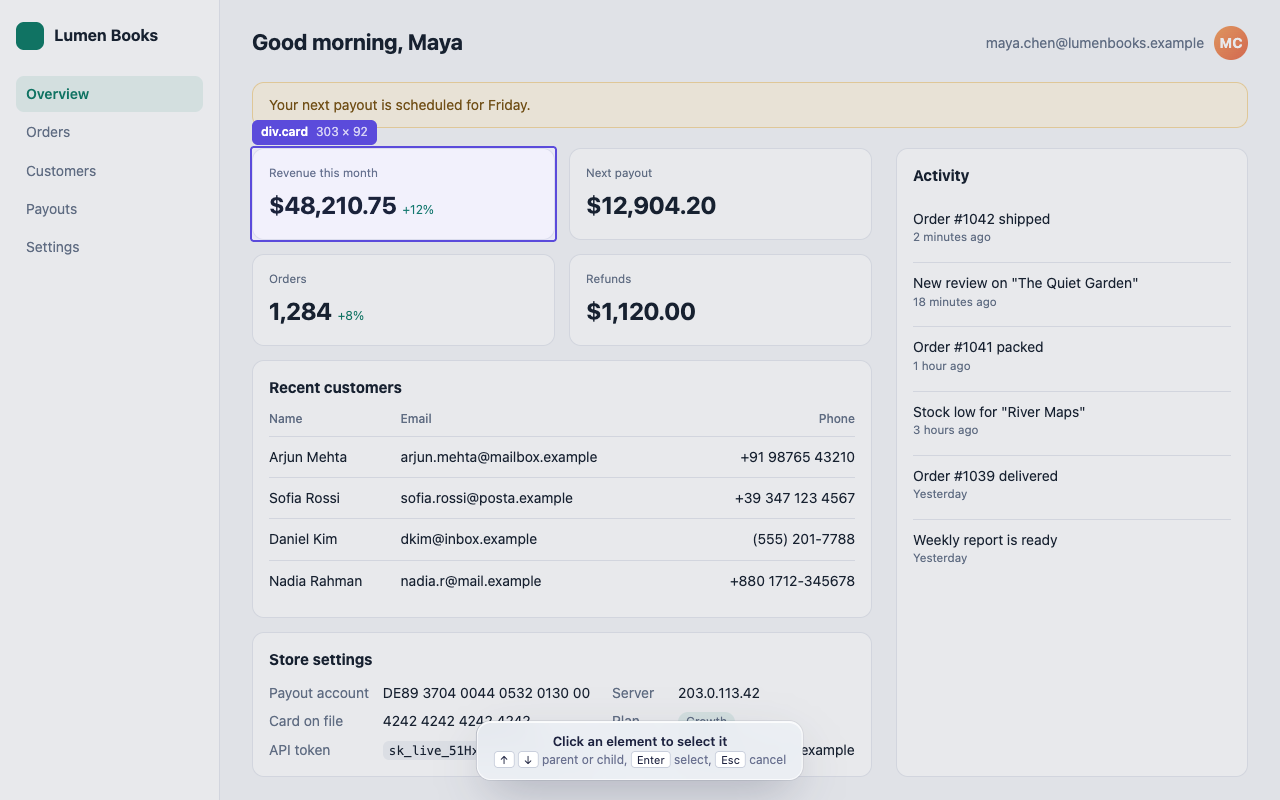
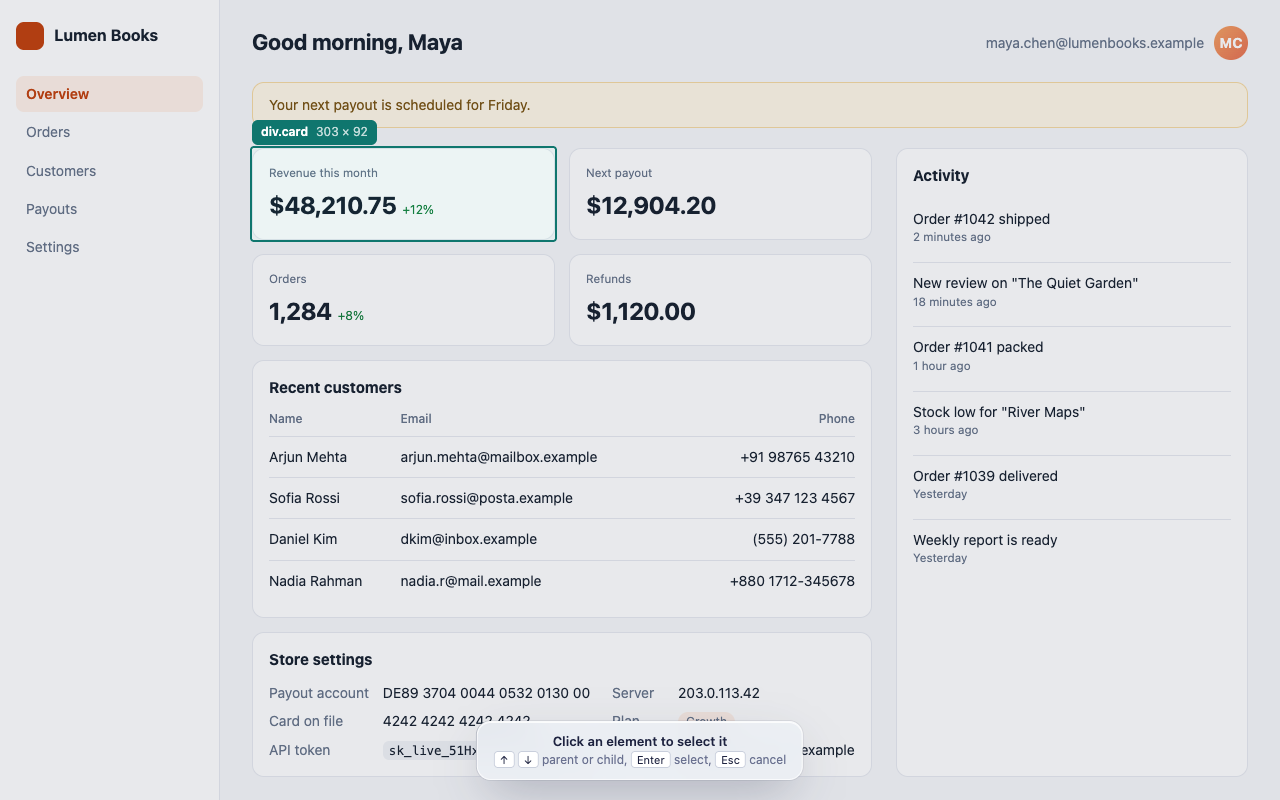
Change the brand color to deep teal
Replace the purple brand color (#5B4BDB) with deep teal (#0F766E) in
the popup, the on-page panel and picker, and the toolbar badge.
Recolor the icons and regenerate the store images. The demo page now
uses orange, so its own brand does not blend with Veil.

diff --git a/content.js b/content.js
@@ -269,16 +269,16 @@
     [hidden] { display: none !important; }
     .ui { font: 13px/1.4 system-ui, -apple-system, "Segoe UI", Roboto, "Helvetica Neue", sans-serif; color: #1E2340; }
 
-    .box { position: fixed; pointer-events: none; border: 2px solid #5B4BDB; border-radius: 4px;
-      background: rgba(91, 75, 219, .08); box-shadow: 0 0 0 4000px rgba(30, 35, 64, .10);
+    .box { position: fixed; pointer-events: none; border: 2px solid #0F766E; border-radius: 4px;
+      background: rgba(15, 118, 110, .08); box-shadow: 0 0 0 4000px rgba(30, 35, 64, .10);
       transition: left .05s, top .05s, width .05s, height .05s; }
     .box.locked { background: transparent; }
     .box.edit { background: transparent; border-style: dashed; box-shadow: none; }
-    .box.flash { background: rgba(91, 75, 219, .18); box-shadow: none; animation: pulse 1.2s ease-out; }
-    @keyframes pulse { 0% { outline: 0 solid rgba(91,75,219,.5); } 100% { outline: 18px solid rgba(91,75,219,0); } }
+    .box.flash { background: rgba(15, 118, 110, .18); box-shadow: none; animation: pulse 1.2s ease-out; }
+    @keyframes pulse { 0% { outline: 0 solid rgba(15, 118, 110,.5); } 100% { outline: 18px solid rgba(15, 118, 110,0); } }
 
     .tag { position: fixed; pointer-events: none; display: flex; gap: 8px; align-items: baseline;
-      max-width: 70vw; padding: 4px 9px; border-radius: 6px; background: #5B4BDB; color: #fff;
+      max-width: 70vw; padding: 4px 9px; border-radius: 6px; background: #0F766E; color: #fff;
       font-size: 12px; white-space: nowrap; overflow: hidden; }
     .tag .name { font-weight: 600; overflow: hidden; text-overflow: ellipsis; }
     .tag .dim { opacity: .75; }
@@ -300,7 +300,7 @@
     .head .title { font-weight: 650; font-size: 14px; }
     .head .el { flex: 1; min-width: 0; color: #6A7190; font-size: 12px; overflow: hidden; text-overflow: ellipsis; white-space: nowrap; }
     button { font: inherit; color: inherit; cursor: pointer; border: 0; background: none; }
-    button:focus-visible, input:focus-visible { outline: 2px solid #5B4BDB; outline-offset: 2px; }
+    button:focus-visible, input:focus-visible { outline: 2px solid #0F766E; outline-offset: 2px; }
     .icon-btn { width: 26px; height: 26px; border-radius: 8px; display: grid; place-items: center; color: #6A7190; }
     .icon-btn:hover { background: rgba(30,35,64,.07); color: #1E2340; }
 
@@ -312,20 +312,20 @@
     .actions { display: grid; grid-template-columns: repeat(3, 1fr); gap: 6px; margin-top: 10px; }
     .act { display: flex; flex-direction: column; align-items: center; gap: 5px; padding: 11px 4px 9px;
       border-radius: 11px; background: #fff; border: 1px solid rgba(201,207,220,.8); font-size: 12px; font-weight: 550; }
-    .act:hover { border-color: #5B4BDB; color: #5B4BDB; }
-    .act[aria-pressed="true"] { border-color: #5B4BDB; background: #5B4BDB; color: #fff; }
+    .act:hover { border-color: #0F766E; color: #0F766E; }
+    .act[aria-pressed="true"] { border-color: #0F766E; background: #0F766E; color: #fff; }
     .act svg { width: 20px; height: 20px; }
 
-    .keep { width: 100%; margin-top: 6px; padding: 7px 10px; border-radius: 10px; font-size: 12px; color: #5B4BDB;
-      background: rgba(91,75,219,.08); text-align: left; }
-    .keep:hover { background: rgba(91,75,219,.15); }
+    .keep { width: 100%; margin-top: 6px; padding: 7px 10px; border-radius: 10px; font-size: 12px; color: #0F766E;
+      background: rgba(15, 118, 110,.08); text-align: left; }
+    .keep:hover { background: rgba(15, 118, 110,.15); }
     .sub { margin-top: 10px; padding-top: 10px; border-top: 1px solid rgba(201,207,220,.9); display: grid; gap: 9px; }
     .sub label { display: flex; align-items: center; gap: 8px; font-size: 12px; color: #1E2340; }
-    .sub input[type=range] { flex: 1; accent-color: #5B4BDB; }
-    .sub input[type=checkbox] { accent-color: #5B4BDB; margin: 0; }
+    .sub input[type=range] { flex: 1; accent-color: #0F766E; }
+    .sub input[type=checkbox] { accent-color: #0F766E; margin: 0; }
     .val { min-width: 34px; text-align: right; color: #6A7190; font-variant-numeric: tabular-nums; }
     .choice { text-align: left; padding: 9px 10px; border-radius: 10px; background: #fff; border: 1px solid rgba(201,207,220,.8); }
-    .choice:hover { border-color: #5B4BDB; }
+    .choice:hover { border-color: #0F766E; }
     .choice b { display: block; font-weight: 600; font-size: 12px; }
     .choice span { color: #6A7190; font-size: 11.5px; }
 
@@ -333,8 +333,8 @@
     .nav button { padding: 3px 6px; border-radius: 6px; }
     .nav button:hover { background: rgba(30,35,64,.07); color: #1E2340; }
 
-    .primary { padding: 8px 14px; border-radius: 10px; background: #5B4BDB; color: #fff; font-weight: 600; }
-    .primary:hover { background: #4A3BC4; }
+    .primary { padding: 8px 14px; border-radius: 10px; background: #0F766E; color: #fff; font-weight: 600; }
+    .primary:hover { background: #115E59; }
     .ghost { padding: 8px 12px; border-radius: 10px; color: #6A7190; }
     .ghost:hover { background: rgba(30,35,64,.07); color: #1E2340; }
 
@@ -345,8 +345,8 @@
 
     .toast { position: fixed; right: 20px; bottom: 20px; pointer-events: auto; padding: 8px 8px 8px 14px;
       border-radius: 12px; display: flex; align-items: center; gap: 12px; font-weight: 550; }
-    .toast button { padding: 5px 10px; border-radius: 8px; color: #5B4BDB; font-weight: 600; }
-    .toast button:hover { background: rgba(91,75,219,.1); }
+    .toast button { padding: 5px 10px; border-radius: 8px; color: #0F766E; font-weight: 600; }
+    .toast button:hover { background: rgba(15, 118, 110,.1); }
 
     @media (prefers-reduced-motion: reduce) { .box { transition: none; } .box.flash { animation: none; } }
   `;

diff --git a/popup.css b/popup.css
@@ -1,8 +1,8 @@
 :root {
   --vellum: #EEF1F6;
   --ink: #1E2340;
-  --iris: #5B4BDB;
-  --iris-deep: #4A3BC4;
+  --teal: #0F766E;
+  --teal-deep: #115E59;
   --mist: #C9CFDC;
   --slate: #6A7190;
   --rose: #C23A4B;
@@ -18,7 +18,7 @@ body {
   background: var(--vellum);
 }
 button { font: inherit; color: inherit; cursor: pointer; border: 0; background: none; }
-button:focus-visible, input:focus-visible + .track { outline: 2px solid var(--iris); outline-offset: 2px; }
+button:focus-visible, input:focus-visible + .track { outline: 2px solid var(--teal); outline-offset: 2px; }
 [hidden] { display: none !important; }
 
 header {
@@ -40,7 +40,7 @@ h1 { margin: 0; font-size: 17px; font-weight: 700; letter-spacing: -0.01em; }
   content: ""; position: absolute; top: 2px; left: 2px; width: 16px; height: 16px; border-radius: 50%;
   background: #fff; box-shadow: 0 1px 2px rgba(30,35,64,.3); transition: transform .15s;
 }
-.switch input:checked + .track { background: var(--iris); }
+.switch input:checked + .track { background: var(--teal); }
 .switch input:checked + .track::after { transform: translateX(14px); }
 .state { font-size: 12px; color: var(--slate); min-width: 44px; }
 
@@ -49,10 +49,10 @@ main { padding: 0 12px 8px; }
 .pick {
   width: 100%; display: flex; align-items: center; justify-content: space-between;
   padding: 12px 14px; border-radius: 14px;
-  background: var(--iris); color: #fff; font-weight: 600; font-size: 14px;
-  box-shadow: 0 8px 20px -10px rgba(91,75,219,.8);
+  background: var(--teal); color: #fff; font-weight: 600; font-size: 14px;
+  box-shadow: 0 8px 20px -10px rgba(15, 118, 110,.8);
 }
-.pick:hover { background: var(--iris-deep); }
+.pick:hover { background: var(--teal-deep); }
 kbd {
   font: inherit; font-size: 11px; font-weight: 500; padding: 2px 7px; border-radius: 6px;
   background: rgba(255,255,255,.18);
@@ -72,7 +72,7 @@ section { margin-top: 14px; }
 .note { margin: 0; font-size: 12px; color: var(--slate); }
 .note kbd { background: rgba(30,35,64,.07); color: var(--ink); }
 .check { display: flex; gap: 8px; align-items: flex-start; font-size: 12px; cursor: pointer; }
-.check input { margin: 2px 0 0; accent-color: var(--iris); }
+.check input { margin: 2px 0 0; accent-color: var(--teal); }
 .types { border: 0; margin: 0; padding: 0; display: grid; grid-template-columns: 1fr 1fr; gap: 6px 10px; }
 .types legend { padding: 0; margin-bottom: 6px; font-size: 12px; font-weight: 600; color: var(--slate); }
 .field { display: grid; gap: 4px; font-size: 12px; color: var(--slate); }
@@ -80,10 +80,10 @@ section { margin-top: 14px; }
   width: 100%; resize: vertical; padding: 6px 8px; border-radius: 8px; border: 1px solid var(--mist);
   font: 12px/1.4 ui-monospace, SFMono-Regular, Menlo, monospace; color: var(--ink); background: #fff;
 }
-.field textarea:focus-visible { outline: 2px solid var(--iris); outline-offset: 1px; }
+.field textarea:focus-visible { outline: 2px solid var(--teal); outline-offset: 1px; }
 .excl { display: flex; align-items: center; justify-content: space-between; font-size: 12px; color: var(--slate); }
-.excl button { color: var(--iris); font-weight: 600; padding: 3px 6px; border-radius: 6px; }
-.excl button:hover { background: rgba(91,75,219,.1); }
+.excl button { color: var(--teal); font-weight: 600; padding: 3px 6px; border-radius: 6px; }
+.excl button:hover { background: rgba(15, 118, 110,.1); }
 section h2 {
   margin: 0 4px 6px; font-size: 12px; font-weight: 600; color: var(--slate);
   display: flex; justify-content: space-between;
@@ -98,11 +98,11 @@ li.rule.off .badge, li.rule.off .body { opacity: .45; }
 
 .badge {
   width: 30px; height: 30px; border-radius: 9px; display: grid; place-items: center;
-  background: rgba(91,75,219,.1); color: var(--iris);
+  background: rgba(15, 118, 110,.1); color: var(--teal);
 }
 .badge.hide { background: rgba(30,35,64,.08); color: var(--ink); }
 .badge.data { background: rgba(194,58,75,.1); color: var(--rose); }
-.badge.text { background: rgba(91,75,219,.16); }
+.badge.text { background: rgba(15, 118, 110,.16); }
 .badge svg { width: 17px; height: 17px; }
 
 .body { min-width: 0; }

diff --git a/store/pages/dashboard.html b/store/pages/dashboard.html
@@ -4,7 +4,7 @@
 <meta charset="utf-8">
 <title>Lumen Books · Dashboard</title>
 <style>
-  :root { --ink: #16202e; --muted: #677489; --line: #e6e9ef; --bg: #f6f7f9; --brand: #0e7c66; }
+  :root { --ink: #16202e; --muted: #677489; --line: #e6e9ef; --bg: #f6f7f9; --brand: #C2410C; }
   * { box-sizing: border-box; }
   body { margin: 0; font: 14px/1.45 system-ui, -apple-system, "Segoe UI", Roboto, sans-serif; color: var(--ink); background: var(--bg); }
   .app { display: grid; grid-template-columns: 220px 1fr; min-height: 800px; }
@@ -12,7 +12,7 @@
   .logo { display: flex; align-items: center; gap: 10px; font-weight: 700; font-size: 16px; margin-bottom: 26px; }
   .logo i { width: 28px; height: 28px; border-radius: 8px; background: var(--brand); display: block; }
   nav a { display: block; padding: 8px 10px; border-radius: 8px; color: var(--muted); text-decoration: none; margin-bottom: 2px; }
-  nav a.on { background: #e8f4f1; color: var(--brand); font-weight: 600; }
+  nav a.on { background: #FFF1E8; color: var(--brand); font-weight: 600; }
   main { padding: 26px 32px; display: grid; grid-template-columns: 620px 1fr; gap: 0 24px; align-content: start; }
   header, .banner { grid-column: 1 / -1; }
   .left { display: grid; gap: 14px; }
@@ -24,7 +24,7 @@
   .card { background: #fff; border: 1px solid var(--line); border-radius: 12px; padding: 16px; }
   .card small { color: var(--muted); display: block; margin-bottom: 6px; }
   .card b { font-size: 24px; letter-spacing: -.01em; }
-  .card em { font-style: normal; color: var(--brand); font-size: 12px; margin-left: 6px; }
+  .card em { font-style: normal; color: #15803D; font-size: 12px; margin-left: 6px; }
   table { width: 100%; border-collapse: collapse; }
   th { text-align: left; color: var(--muted); font-weight: 500; font-size: 12px; padding: 0 0 8px; }
   td { padding: 10px 0; border-top: 1px solid var(--line); }
@@ -37,7 +37,7 @@
   .feed small { display: block; color: var(--muted); }
   .kv span { color: var(--muted); }
   code { font: 12.5px ui-monospace, SFMono-Regular, Menlo, monospace; background: #f1f3f6; padding: 2px 6px; border-radius: 6px; }
-  .pill { display: inline-block; padding: 1px 8px; border-radius: 99px; font-size: 12px; background: #e8f4f1; color: var(--brand); }
+  .pill { display: inline-block; padding: 1px 8px; border-radius: 99px; font-size: 12px; background: #FFF1E8; color: var(--brand); }
 </style>
 </head>
 <body>

diff --git a/store/generate-assets.js b/store/generate-assets.js
@@ -180,14 +180,14 @@ function promoHtml(width, height, icon) {
         : `<span style="font:600 ${13 * u}px system-ui;color:#1e2340;filter:blur(${4 * u}px)">$${value},480.00</span>`}
     </div>`;
   return `<body style="margin:0;width:${width}px;height:${height}px;overflow:hidden;
-      background:radial-gradient(circle at 20% 30%,#7a6cf0,#5b4bdb 45%,#3f31b8);font-family:system-ui">
+      background:radial-gradient(circle at 20% 30%,#136F68,#0B4F4A 50%,#073A36);font-family:system-ui">
     <div style="height:100%;display:flex;align-items:center;justify-content:center;gap:${40 * u}px">
     <div style="display:flex;flex-direction:column;align-items:center;gap:${10 * u}px">
       <img src="${icon}" style="width:${96 * u}px;height:${96 * u}px;filter:drop-shadow(0 ${6 * u}px ${14 * u}px rgba(0,0,0,.25))">
       <span style="color:#fff;font-weight:700;font-size:${30 * u}px;letter-spacing:-.01em">Veil</span>
     </div>
     <div style="transform:rotate(-3deg);width:${220 * u}px;background:#fff;border-radius:${14 * u}px;padding:${14 * u}px ${16 * u}px;
-        box-shadow:0 ${18 * u}px ${40 * u}px rgba(20,16,70,.35)">
+        box-shadow:0 ${18 * u}px ${40 * u}px rgba(4,40,37,.35)">
       <div style="height:${9 * u}px;width:${90 * u}px;border-radius:${5 * u}px;background:#1e2340;margin-bottom:${10 * u}px"></div>
       ${row(60 * u, 70, 'mask')}${row(44 * u, 12, 'blur')}${row(70 * u, 90, 'mask')}${row(52 * u, 48, 'blur')}${row(38 * u, 56, 'mask')}
     </div>

diff --git a/background.js b/background.js
@@ -51,7 +51,7 @@ chrome.runtime.onMessage.addListener((msg, sender) => {
   if (msg?.type === 'veil:count' && sender.tab?.id != null) {
     const tabId = sender.tab.id;
     chrome.action.setBadgeText({ tabId, text: msg.n ? String(msg.n) : '' }).catch(() => {});
-    chrome.action.setBadgeBackgroundColor({ tabId, color: '#5B4BDB' }).catch(() => {});
+    chrome.action.setBadgeBackgroundColor({ tabId, color: '#0F766E' }).catch(() => {});
     chrome.action.setBadgeTextColor?.({ tabId, color: '#FFFFFF' })?.catch?.(() => {});
   }
 });

diff --git a/CHANGELOG.md b/CHANGELOG.md
@@ -8,6 +8,7 @@ The format follows [Keep a Changelog](https://keepachangelog.com/en/1.1.0/), and
 
 ### Changed
 
+- New deep teal brand color (`#0F766E`) for the icon, popup, on-page panel and picker.
 - Shorter extension description, because the Chrome Web Store allows at most 132 characters.
 
 ### Fixed
